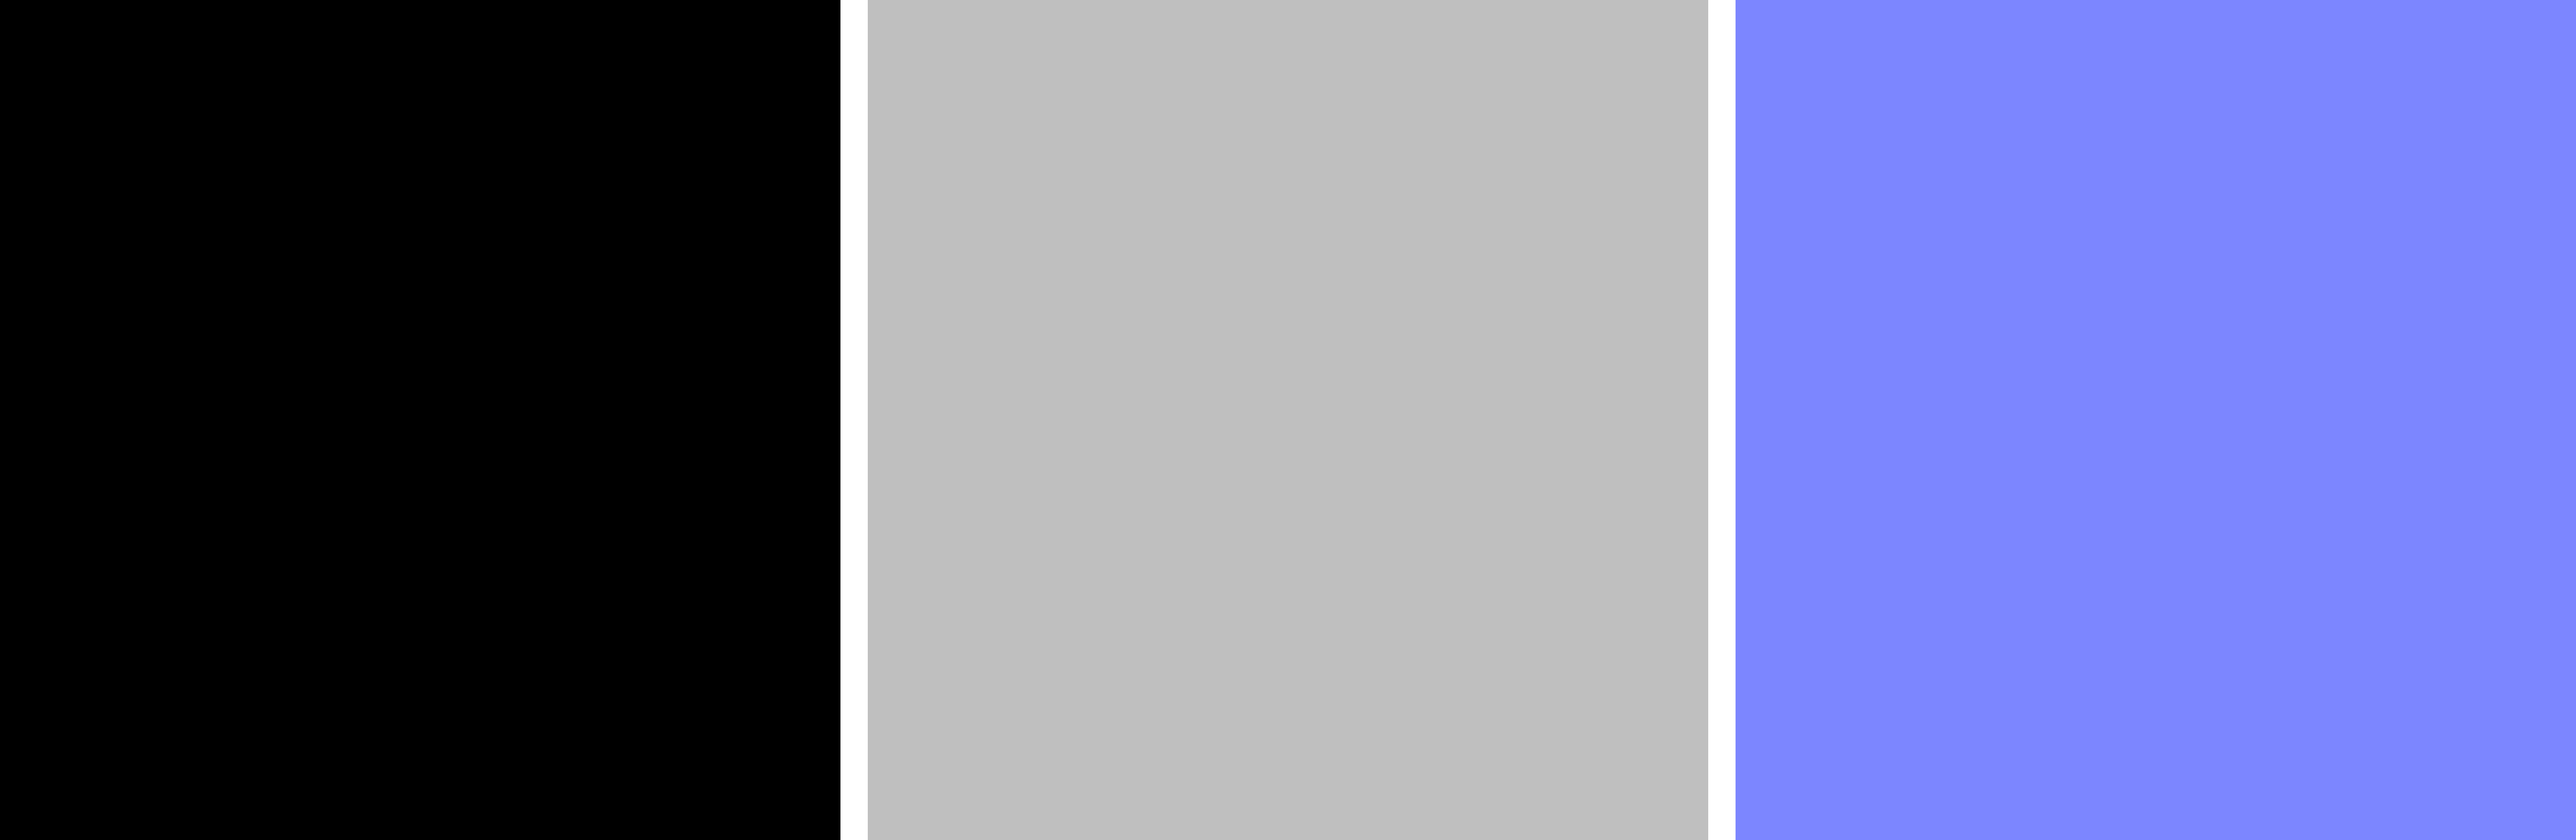
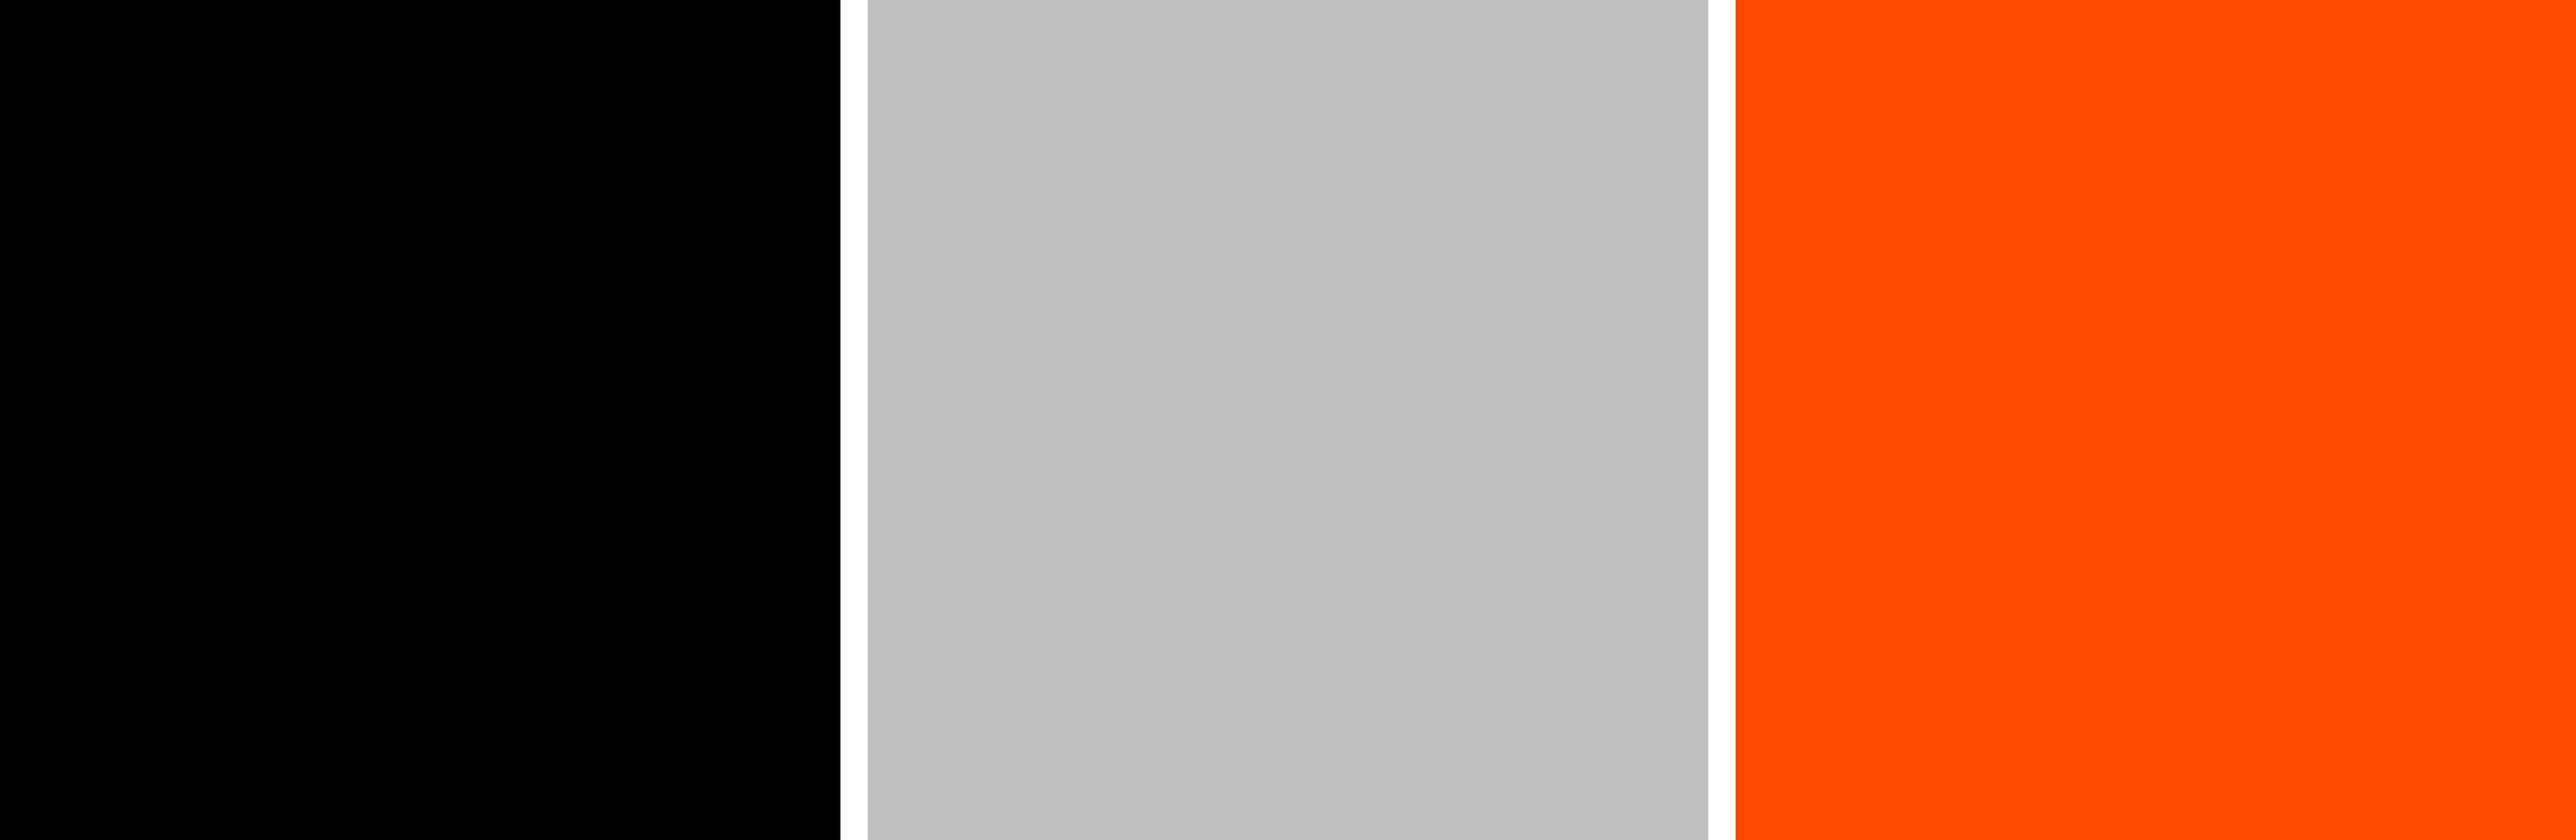
Coded design + projects

diff --git a/project-1.html b/project-1.html
@@ -7,44 +7,44 @@
         <link href = "css/main.css" rel="stylesheet">
     </head>
 
-    <body>
+    <body class="project1-body">
         <header>
             <a href ="index.html">Portfolio</a>
             <div class=nav>
-                <a href="style-guide.html">Style Guide</a>
                 <a href="about.html">About</a>
+                <a href="style-guide.html">Style Guide</a>
                 <a href="citations.html">Citations</a>
             </div>       
         </header>  
         <section class="project-content">
-            <div>
-                <h2>Name</h2>
-                <p>Text</p>
+            <div class="underline">
+                <h2>About Here Adventure Cards</h2>
+                <p>About Here is a creative studio and YouTube channel dedicated to help people learn and understand their cities. Responsible for developing the visual design, our final solution showcases 52 adventure cards highlighting different types of locations across Vancouver.</p>
             </div>
             <div class="project-sections">
-                <h4 class="subheader">Overview</h4>
-                <p>Lorem ipsum dolor sit amet, consectetur adipiscing elit, sed do eiusmod tempor incididunt ut labore et dolore magna aliqua. Ut enim ad minim veniam, quis nostrud exercitation ullamco laboris nisi ut aliquip ex ea commodo consequat. Duis aute irure dolor in reprehenderit in voluptate velit esse cillum dolore eu fugiat nulla pariatur. Excepteur sint occaecat cupidatat non proident, sunt in culpa qui officia deserunt mollit anim id est laborum</p>
-                <img src="img/project-1.png" width="700" height="500" alt="Project 1">
+                <h4>Concepts</h4>
+                <p>I began ideating ideas for our consolidated research, exploring different ways to help users with city exploration. The team wanted a unique yet functional way to represent our insights and concepts.</p>
+                <img src="img/project1-moodboard.png" width="700" height="500" alt="Project 1">
             </div>
             <div class="project-sections">
-                <h4 class="subheader">Final Design</h4>
-                <p>Lorem ipsum dolor sit amet, consectetur adipiscing elit, sed do eiusmod tempor incididunt ut labore et dolore magna aliqua. Ut enim ad minim veniam, quis nostrud exercitation ullamco laboris nisi ut aliquip ex ea commodo consequat. Duis aute irure dolor in reprehenderit in voluptate velit esse cillum dolore eu fugiat nulla pariatur. Excepteur sint occaecat cupidatat non proident, sunt in culpa qui officia deserunt mollit anim id est laborum</p>
-                <img src="img/project-1.png" width="700" height="500" alt="Project 1">
+                <h4>Initial Designs</h4>
+                <p>The team wanted to expand beyond About Here’s digital content and promote intentional, city-based exploration within urban spaces. Due to this, we chose to create a card deck, a compact and travel friendly item. I explored initial designs, but we found these variations too complex.</p>
+                <img src="img/project1-drafts.png" width="700" height="500" alt="Project 1">
             </div>
             <div class="project-sections">
-                <h4 class="subheader">Research</h4>
-                <p>Lorem ipsum dolor sit amet, consectetur adipiscing elit, sed do eiusmod tempor incididunt ut labore et dolore magna aliqua. Ut enim ad minim veniam, quis nostrud exercitation ullamco laboris nisi ut aliquip ex ea commodo consequat. Duis aute irure dolor in reprehenderit in voluptate velit esse cillum dolore eu fugiat nulla pariatur. Excepteur sint occaecat cupidatat non proident, sunt in culpa qui officia deserunt mollit anim id est laborum</p>
-                <img src="img/project-1.png" width="700" height="500" alt="Project 1">
+                <h4>The Final Solution</h4>
+                <p>The final solution simplifies the initial designs, making the illustrations stand out. Information is clear and easy for users to scan.</p>
+                <img src="img/project1-finaldesign.png" width="700" height="500" alt="Project 1">
+                <img src="img/project1-finaldesign2.png" width="700" height="500" alt="Project 1">
             </div>
             <div class="project-sections">
-                <h4 class="subheader">Insights</h4>
-                <p>Lorem ipsum dolor sit amet, consectetur adipiscing elit, sed do eiusmod tempor incididunt ut labore et dolore magna aliqua. Ut enim ad minim veniam, quis nostrud exercitation ullamco laboris nisi ut aliquip ex ea commodo consequat. Duis aute irure dolor in reprehenderit in voluptate velit esse cillum dolore eu fugiat nulla pariatur. Excepteur sint occaecat cupidatat non proident, sunt in culpa qui officia deserunt mollit anim id est laborum</p>
-                <img src="img/project-1.png" width="700" height="500" alt="Project 1">
+                <h4>Branding</h4>
+                <p>I separated the cards into four different colours and shapes, each representing a different type of activity for users to quick distinguish. The typeface was also chosen to represent a lively tone (Staatliches) and was paired with a thinner typeface for the body (Pretendard).  </p>
+                <img src="img/project1-branding.png" width="700" height="500" alt="Project 1">
             </div>
             <div class="project-sections">
-                <h4 class="subheader">Final</h4>
-                <p>Lorem ipsum dolor sit amet, consectetur adipiscing elit, sed do eiusmod tempor incididunt ut labore et dolore magna aliqua. Ut enim ad minim veniam, quis nostrud exercitation ullamco laboris nisi ut aliquip ex ea commodo consequat. Duis aute irure dolor in reprehenderit in voluptate velit esse cillum dolore eu fugiat nulla pariatur. Excepteur sint occaecat cupidatat non proident, sunt in culpa qui officia deserunt mollit anim id est laborum</p>
-                <img src="img/project-1.png" width="700" height="500" alt="Project 1">
+                <h4>What I Learned</h4>
+                <p>While designing, I learned a big part is making sure your designs are communicated properly. Information should be clear and often times, the simple route is better than high complexity.</p>
             </div>
         </section>      
     </body>

diff --git a/project-2.html b/project-2.html
@@ -7,44 +7,43 @@
         <link href = "css/main.css" rel="stylesheet">
     </head>
 
-    <body>
+    <body class="project2-body">
         <header>
             <a href ="index.html">Portfolio</a>
             <div class=nav>
-                <a href="style-guide.html">Style Guide</a>
                 <a href="about.html">About</a>
+                <a href="style-guide.html">Style Guide</a>
                 <a href="citations.html">Citations</a>
             </div>       
         </header>  
         <section class="project-content">
-            <div>
-                <h2>Name</h2>
-                <p>Text</p>
+            <div class="underline">
+                <h2>Asana Pals</h2>
+                <p>Asana is a plateform to help teams and people manage projects and tasks. In charge of illustrations, I helped develop an avatar customization feature of our academic case study where users are able to customize their own Asana Pal.</p>
             </div>
             <div class="project-sections">
-                <h4 class="subheader">Overview</h4>
-                <p>Lorem ipsum dolor sit amet, consectetur adipiscing elit, sed do eiusmod tempor incididunt ut labore et dolore magna aliqua. Ut enim ad minim veniam, quis nostrud exercitation ullamco laboris nisi ut aliquip ex ea commodo consequat. Duis aute irure dolor in reprehenderit in voluptate velit esse cillum dolore eu fugiat nulla pariatur. Excepteur sint occaecat cupidatat non proident, sunt in culpa qui officia deserunt mollit anim id est laborum</p>
-                <img src="img/project-2.png" width="700" height="500" alt="Project 1">
+                <h4>Looking at the Branding</h4>
+                <p>I first gathered Asana's exisiting illustrations to dissect common themes and qualities that gives their graphics their look. I found their illustrations uses heavy gradients, soft palettes, and rounded corners to give a friendly yet engaging tone.</p>
+                <img src="img/project2-branding.png" width="700" height="500" alt="Project 1">
             </div>
             <div class="project-sections">
-                <h4 class="subheader">Final Design</h4>
-                <p>Lorem ipsum dolor sit amet, consectetur adipiscing elit, sed do eiusmod tempor incididunt ut labore et dolore magna aliqua. Ut enim ad minim veniam, quis nostrud exercitation ullamco laboris nisi ut aliquip ex ea commodo consequat. Duis aute irure dolor in reprehenderit in voluptate velit esse cillum dolore eu fugiat nulla pariatur. Excepteur sint occaecat cupidatat non proident, sunt in culpa qui officia deserunt mollit anim id est laborum</p>
-                <img src="img/project-2.png" width="700" height="500" alt="Project 1">
+                <h4>Illustration Qualities</h4>
+                <p>Applying the qualities I gathered, I extended Asana's mascot illustrations for our feature by introducing additinoal colour combinations and accessories. Despite Asana's detailed characters, their facial expressions were suprisingly simple, which I reflected on providing a variety of facial expressions as well.</p>
+                <img src="img/project2-illustration.png" width="700" height="500" alt="Project 1">
             </div>
             <div class="project-sections">
-                <h4 class="subheader">Research</h4>
-                <p>Lorem ipsum dolor sit amet, consectetur adipiscing elit, sed do eiusmod tempor incididunt ut labore et dolore magna aliqua. Ut enim ad minim veniam, quis nostrud exercitation ullamco laboris nisi ut aliquip ex ea commodo consequat. Duis aute irure dolor in reprehenderit in voluptate velit esse cillum dolore eu fugiat nulla pariatur. Excepteur sint occaecat cupidatat non proident, sunt in culpa qui officia deserunt mollit anim id est laborum</p>
-                <img src="img/project-2.png" width="700" height="500" alt="Project 1">
+                <h4>Final Illustrations</h4>
+                <p>The final illustrations redefine Asana's pre-existing mascots for our feature and represented in a new visual light to create a more engaging experience for users.</p>
+                <img src="img/project2-library.png" width="700" height="500" alt="Project 1">
             </div>
             <div class="project-sections">
-                <h4 class="subheader">Insights</h4>
-                <p>Lorem ipsum dolor sit amet, consectetur adipiscing elit, sed do eiusmod tempor incididunt ut labore et dolore magna aliqua. Ut enim ad minim veniam, quis nostrud exercitation ullamco laboris nisi ut aliquip ex ea commodo consequat. Duis aute irure dolor in reprehenderit in voluptate velit esse cillum dolore eu fugiat nulla pariatur. Excepteur sint occaecat cupidatat non proident, sunt in culpa qui officia deserunt mollit anim id est laborum</p>
-                <img src="img/project-2.png" width="700" height="500" alt="Project 1">
+                <h4>Marketing</h4>
+                <p>Once the illustration were complete, I create mock social media posts to showcase the final product.</p>
+                <img src="img/project2-marketing.png" width="700" height="500" alt="Project 1">
             </div>
             <div class="project-sections">
-                <h4 class="subheader">Final</h4>
-                <p>Lorem ipsum dolor sit amet, consectetur adipiscing elit, sed do eiusmod tempor incididunt ut labore et dolore magna aliqua. Ut enim ad minim veniam, quis nostrud exercitation ullamco laboris nisi ut aliquip ex ea commodo consequat. Duis aute irure dolor in reprehenderit in voluptate velit esse cillum dolore eu fugiat nulla pariatur. Excepteur sint occaecat cupidatat non proident, sunt in culpa qui officia deserunt mollit anim id est laborum</p>
-                <img src="img/project-2.png" width="700" height="500" alt="Project 1">
+                <h4>What I Learned</h4>
+                <p>When designing for the user, it's important to understand their needs. Understanding your target user and audience shapes both the visuals and language of a project when conveyed to an audience.</p>
             </div>
         </section>      
     </body>

diff --git a/css/main.css b/css/main.css
@@ -20,6 +20,7 @@ h2 {
 
 h3 {
     font-size: 1rem;
+    font-weight: normal;
     color: #BFBFBF;
 }
 
@@ -34,14 +35,15 @@ h4 {
 
 p {
     font-size: 1rem;
+    font-weight: lighter;
     color: black;
 }
 
-.subheader {
-    color: #BFBFBF;
+.underline {
     border-bottom-width: 1px;
     border-bottom-style: solid;
-    border-bottom-color: BFBFBF;
+    border-bottom-color: #BFBFBF;
+    padding-bottom: 1rem;
 }
 
 a {
@@ -52,7 +54,7 @@ a {
 }
 
 a:hover, a:checked {
-    color: #7C86FF;
+    color: #E33D00;
 }
 
 a img:hover, img:checked {
@@ -83,7 +85,7 @@ header {
     text-align: center;
     padding-top: 8rem;
     padding-bottom: 4rem;
-    max-width: 40%;
+    max-width: 700px;    
     margin: auto;
 }
 
@@ -111,8 +113,63 @@ header {
 .project-content {
     display: flex;
     flex-direction: column;
-    text-align: center;
-    max-width: 700px;
+    text-align: left;
+    max-width: 700px;    
     margin: auto;
 }
 
+.project1-body {
+    background-color: #027A54;
+}
+
+.project1-body p, 
+.project1-body h2, 
+.project1-body h4, 
+.project1-body .underline, 
+.project1-body a {
+    color: #E8E8E8;
+    border-bottom-color: white;
+}
+
+.project1-body a:hover {
+    color: #D7FFB7;
+}
+
+.project2-body {
+    background-color: #253882;
+}
+.project2-body p, 
+.project2-body h2, 
+.project2-body h4, 
+.project2-body .underline, 
+.project2-body a {
+    color: #E8E8E8;
+    border-bottom-color: white;
+}
+
+.project2-body a:hover {
+    color: #90C1D9;
+}
+
+/* Biography */
+
+.bio-container {
+    display: flex;
+    flex-direction: column;
+    padding: 2rem;
+}
+
+.bio-content {
+    display: flex;
+    flex-direction: column;
+    text-align: left;
+    max-width: 700px;    
+    margin: auto;
+}
+
+.bio-imgs {
+    display: flex;
+    justify-content: center;
+    gap: 0.2rem;
+    padding-top: 1rem;
+}

diff --git a/about.html b/about.html
@@ -7,15 +7,28 @@
         <link href = "css/main.css" rel="stylesheet">
     </head>
 
-    <body>
+    <body class="bio-body">
         <header>
             <a href ="index.html">Portfolio</a>
             <div class=nav>
-                <a href="style-guide.html">Style Guide</a>
                 <a href="about.html">About</a>
+                <a href="style-guide.html">Style Guide</a>
                 <a href="citations.html">Citations</a>
             </div>       
-        </header>    
+        </header> 
+        
+        <section>
+            <div class="bio-container">                
+                <div class="bio-content">
+                <h3>About me</h3>
+                <p>I've always had a passion for storytelling, developing a love for comics, cartoons, character designs and like many who end up in creative fields – illustrating. Overtime, I began to incorporate my passions into the design work I do at school and for my community. However, I slowly learned that I did not only want to create striking illustrations, but something purposeful as well. This led me down many rabbit holes such as graphic designing for clubs, mascot creation for non-profits, and teaching new designers where sharing your craft is just as important as creating it. 
+                </div>
+
+                <div class="bio-imgs">
+                <img src="img/bio-imgs.png" width="1200" height="450" alt="Image of myself">
+                </div>
+            </div>
+        </section>
     </body>
 
 </html>

diff --git a/style-guide.html b/style-guide.html
@@ -11,13 +11,13 @@
         <header>
             <a href ="index.html">Portfolio</a>
             <div class=nav>
-                <a href="style-guide.html">Style Guide</a>
                 <a href="about.html">About</a>
+                <a href="style-guide.html">Style Guide</a>
                 <a href="citations.html">Citations</a>
             </div>       
         </header>        
         <section>
-            <p class="subheader">Typography</p>
+            <h3 class="underline">Typography</h3>
             <h1>Helvetica | H1</h1>
             <h2>Helvetica | H2</h2>
             <h3>Helvetica | H3</h3>
@@ -25,17 +25,17 @@
         </section>
 
         <section>
-            <p class="subheader">Colours</p>
+            <h3 class="underline">Colours</h3>
             <img src="img/Colours.png" width="600" height="200" alt="Colour">
         </section>
 
         <section>
-            <p class="subheader">Links</p>
+            <h3 class="underline">Links</h3>
             <a href="style-guide.html">Navigation Link</a>
         </section>
 
         <section>
-            <p class="subheader">Components</p>
+            <h3 class="underline">Components</h3>
             <div class="project1">
             <a href="style-guide.html"><img src="img/project-1.png" width="700" height="550" alt="Project 2"></a>
             <a href="style-guide.html"><h2>Project Name</h2></a>

diff --git a/index.html b/index.html
@@ -11,8 +11,8 @@
         <header>
             <a href ="index.html">Portfolio</a>
             <div class=nav>
-                <a href="style-guide.html">Style Guide</a>
                 <a href="about.html">About</a>
+                <a href="style-guide.html">Style Guide</a>
                 <a href="citations.html">Citations</a>
             </div>       
         </header>
@@ -24,13 +24,13 @@
             <div class="project-container">
                 <div class="project">
                     <a href="project-1.html"><img src="img/project-1.png" width="700" height="550" alt="Project 1"></a>
-                    <a href="project-1.html"><h2>Adventure Cards</h2></a>
+                    <a href="project-1.html"><h2>About Here Adventure Cards</h2></a>
                     <h4>An intercative card deck for city explorations</h4>
                 </div>
                 <div class="project">
                     <a href="project-2.html"><img src="img/project-2.png" width="700" height="550" alt="Project 2"></a>
-                    <a href="project-2.html"><h2>Asana Avatars</h2></a>
-                    <h4>Mascot illustrations and marketing feature design</h4>
+                    <a href="project-2.html"><h2>Asana Pals</h2></a>
+                    <h4>Illustrations for Asana feature design case study</h4>
                 </div>
 
             </div>

diff --git a/citations.html b/citations.html
@@ -7,12 +7,12 @@
         <link href = "css/main.css" rel="stylesheet">
     </head>
 
-    <body>
+    <body class="citations-body">
         <header>
             <a href ="index.html">Portfolio</a>
             <div class=nav>
-                <a href="style-guide.html">Style Guide</a>
                 <a href="about.html">About</a>
+                <a href="style-guide.html">Style Guide</a>
                 <a href="citations.html">Citations</a>
             </div>       
         </header> 
@@ -20,7 +20,7 @@
         <section>
             <div class="landing-page">
                 <h1>Citations</h1>
-                <p>https://www.w3schools.com/css/css3_flexbox_container_align.asp</p>                           
+                <p>w3schools. (n.d.). <strong>CSS Flexbox Align</strong>.https://www.w3schools.com/css/css3_flexbox_container_align.asp</p>                           
             </div>
         </section>
     </body>
